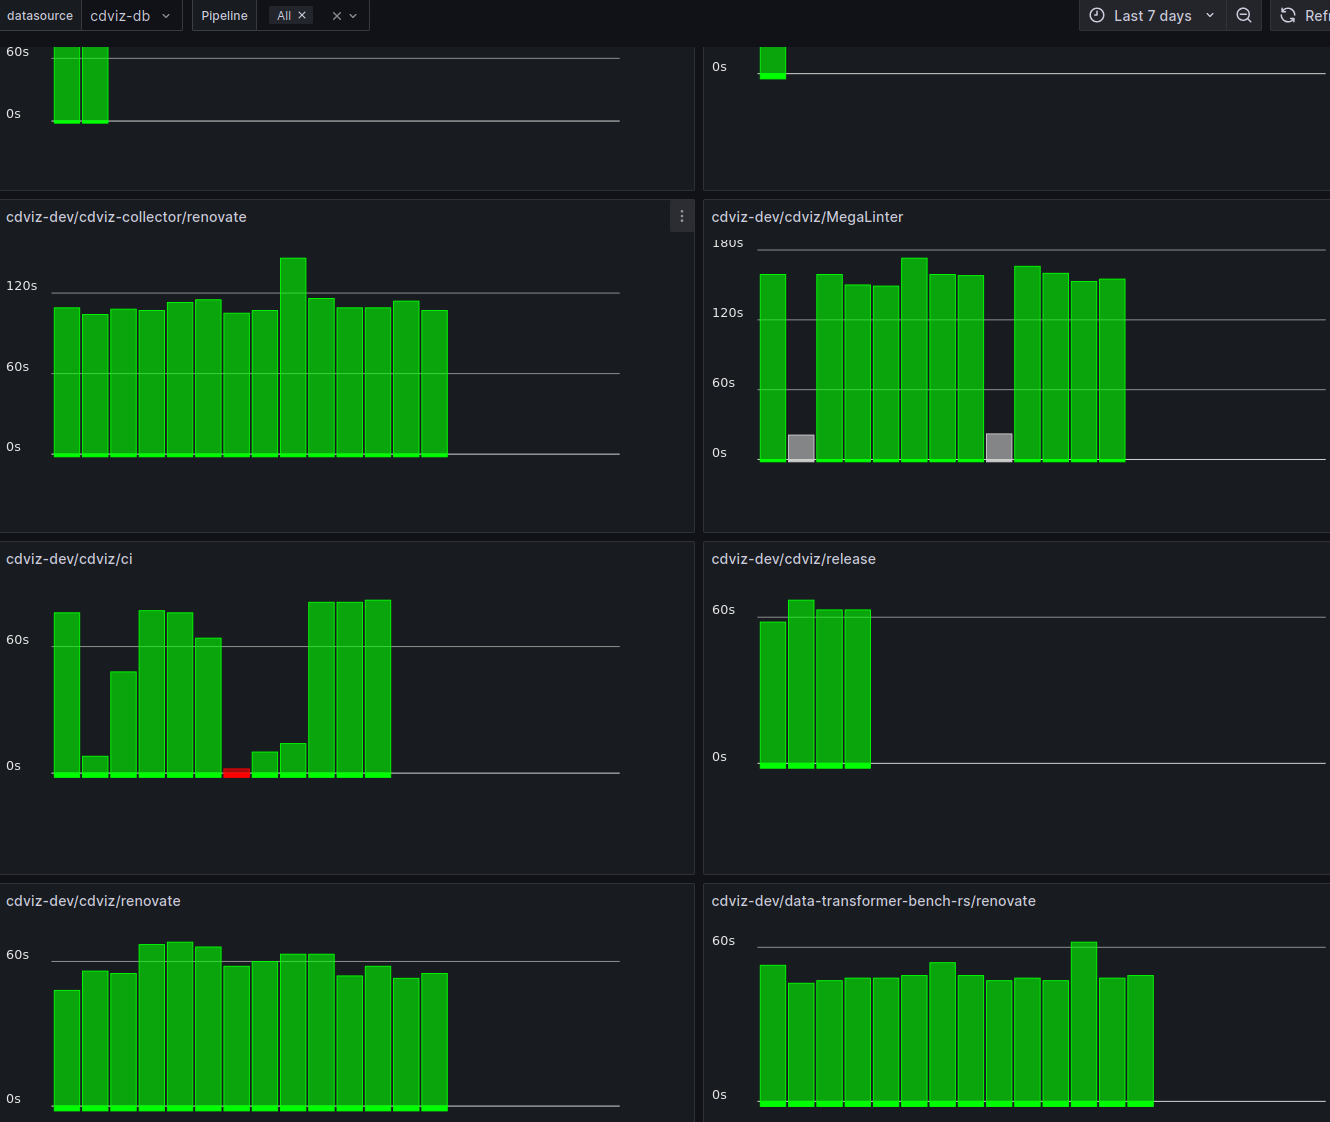
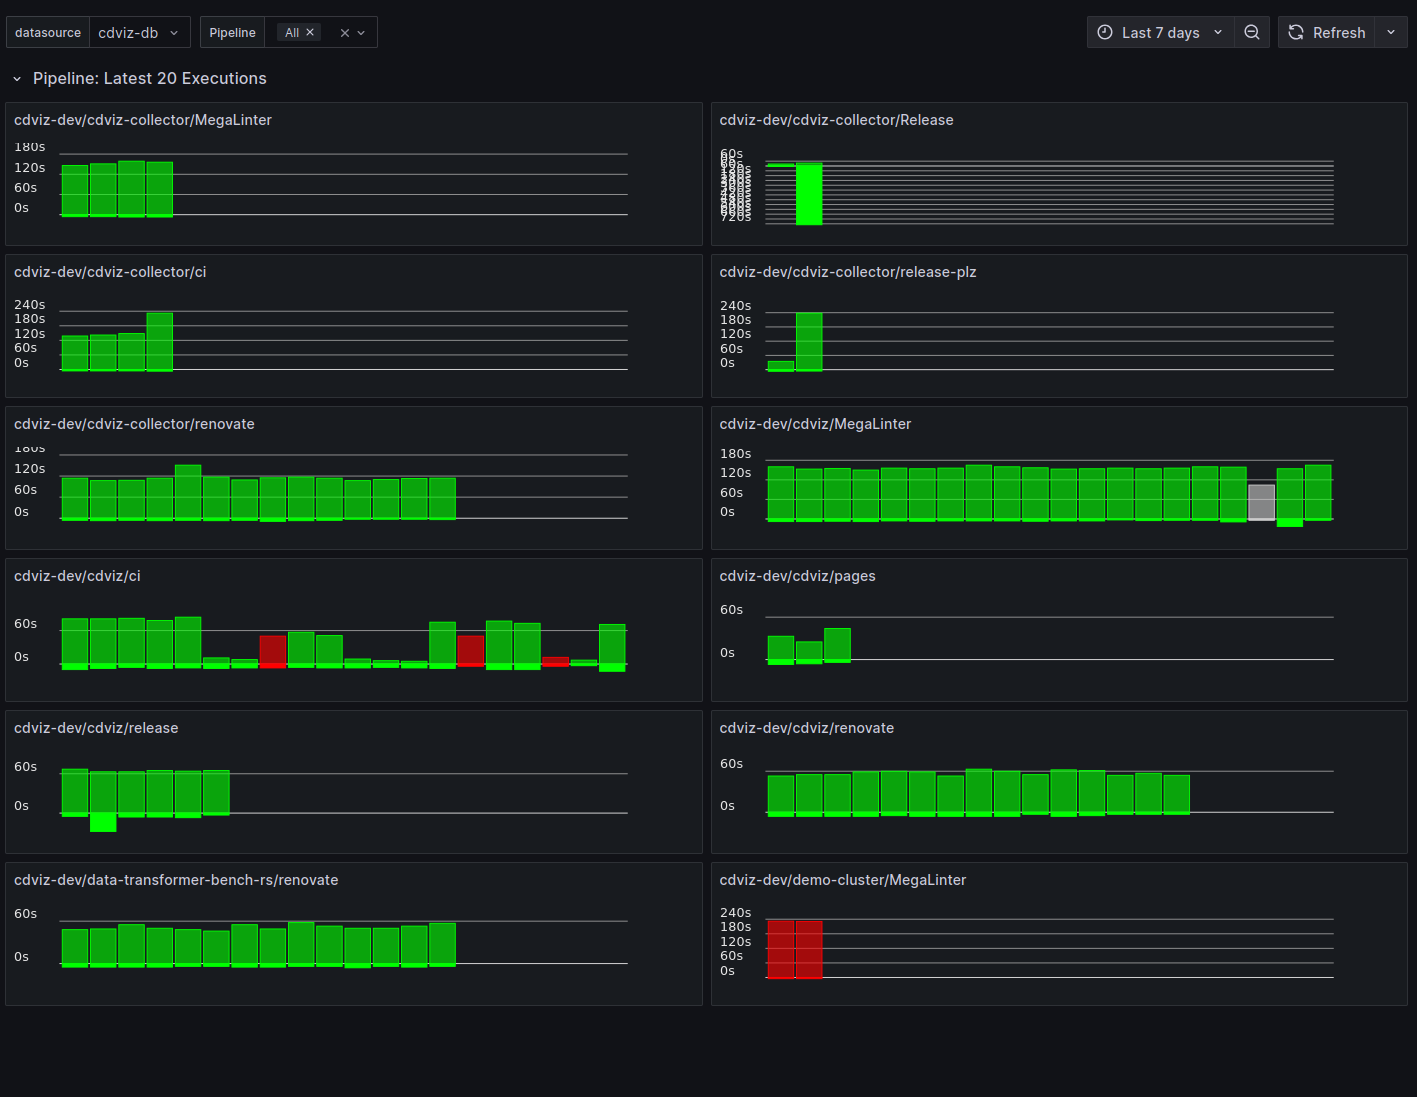
docs: update screenchots for execution dashboard

diff --git a/src/docs/cdviz-grafana/execution_dashboards.md b/src/docs/cdviz-grafana/execution_dashboards.md
@@ -1,6 +1,6 @@
 # Latest Execution Dashboards
 
-![panel executions screenshot](/screenshots/grafana_panel_executions_double_barchart-20250606_2105.png)
+![panel executions screenshot](/screenshots/grafana_panel_executions_double_barchart-20250608_2105.png)
 
 Allow users to visualize duration & results (ok / ko) of the latest executions of:
 - pipelines
